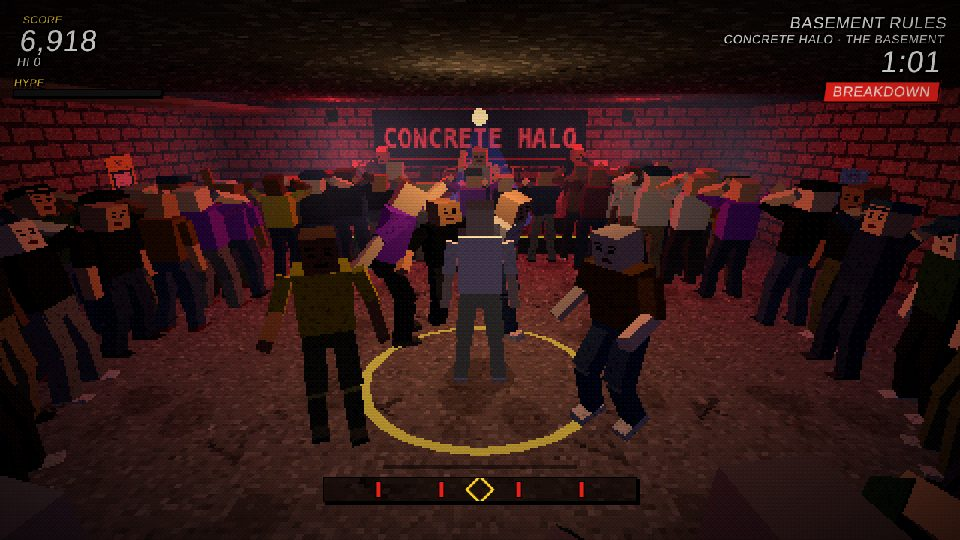
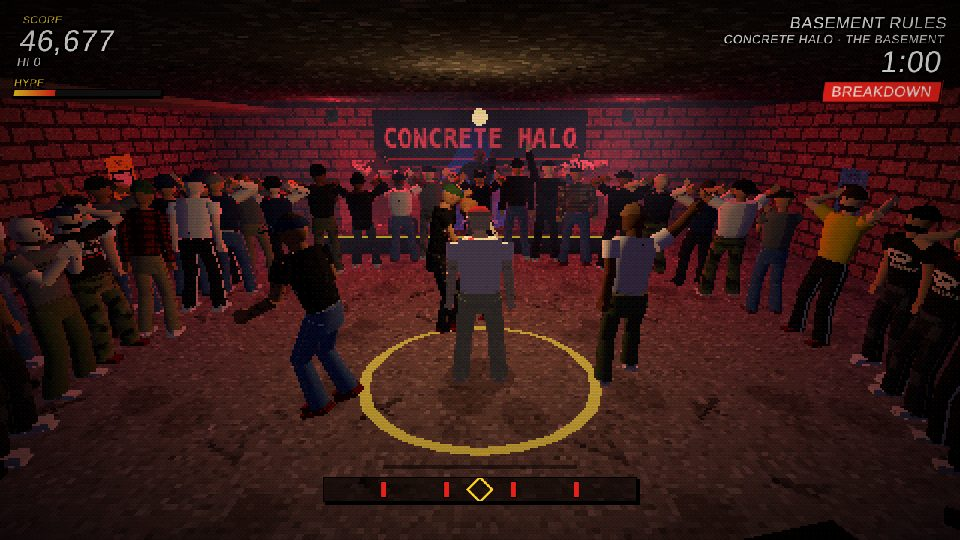
docs: document character overhaul (D-022) and refresh screenshot
Claude-Session: https://claude.ai/code/session_01ThTYhLmk1aJUtW8Gp5BPhx

diff --git a/docs/ART_DIRECTION.md b/docs/ART_DIRECTION.md
@@ -19,17 +19,23 @@ Nicht umgesetzt (bewusst): affines Texture-Warping (in WebGL2/GLSL ES 3.0 nicht 
 
 ## Low-Poly-Anforderungen
 
-- Charaktere: 15 Quader (Becken, Torso, Kopf, Mütze, Ober-/Unterarme, Ober-/Unterschenkel, Füße, Gitarre).
-  ≈ 200 Dreiecke pro Figur. Neue Teile nur mit Gameplay- oder Lesbarkeits-Nutzen.
+- Charaktere im Stil später 90er-3D-Fighter (Referenz: Tekken 3 auf der PS1): **glatt schattierte** Low-Poly-Teile
+  statt Quader – verjüngte Gliedmaßen (8 Segmente), V-förmiger Torso mit Brust und abfallenden Schultern, Kugelkopf
+  mit schmalerem Kiefer und Hals, Fäuste, Sneaker mit dicker Sohle. Kleidung, Tattoos und Gesichter sind Textur,
+  nicht Geometrie. Varianten als eigene Teile: Haare (Buzz/kurz), Bart, Cap, Cap rückwärts, Beanie, kurze/lange
+  Ärmel. ≈ 1000–1500 Dreiecke pro Figur.
+- Neue Teile nur mit Gameplay- oder Lesbarkeits-Nutzen.
 - Umgebung: Quader, Ebenen, Zylinder mit 4–12 Segmenten. Keine Rundungen „für Schönheit“.
 - Silhouette vor Detail: Spieler und Moves müssen auf 270p lesbar sein.
 
 ## Texturen
 
-- 16–64 px, Nearest-Filter, keine Mipmaps, prozedural per Canvas (`textures.ts`): Beton, Ziegel, Holzbühne,
-  Amp-Bespannung, Flyer, Gesichter, Shirt-Prints, Rauch, Lichtkegel-Verlauf.
-- Kleidung der Crowd: helle Schmutz-Textur, eingefärbt per Instanzfarbe.
-- Gesichter: 16×16-Pixel, wütend-fröhlicher Shout-Ausdruck; nur die Vorderseite des Kopfes trägt das Gesicht.
+- 16–64 px, Nearest-Filter, keine Mipmaps, prozedural per Canvas: Umgebung in `textures.ts` (Beton, Ziegel,
+  Holzbühne, Amp-Bespannung, Flyer, Rauch, Lichtkegel), Figuren in `characterTextures.ts`.
+- Figuren nutzen **Atlanten** mit 64-px-Zellen: Shirts/Jacken (fiktive Prints, Jersey, Flanell, Varsity, Camo-Puffer,
+  Hoodie), Hosen (Jeans blau/schwarz, Woodland-Camo, Cargo, Track Pants, Chinos, Jogger), Arm-Tattoos, Gesichter
+  (Ausdrücke, Sonnenbrille, Hals-Tattoos), Caps. Jede Crowd-Person wählt pro Teil eine Zelle + Farbe.
+- Die Vorderseite eines Teils liegt in der Zellenmitte (u = 0,5); Prints sitzen dort.
 - Text auf Texturen (Banner, Flyer) bewusst pixelig.
 
 ## Beleuchtung
@@ -45,11 +51,14 @@ Nicht umgesetzt (bewusst): affines Texture-Warping (in WebGL2/GLSL ES 3.0 nicht 
 ## Charakterdesign
 
 - Proportionen leicht überzeichnet (großer Kopf, breite Schultern), Größe ±8 % und Statur −10 … +20 % pro NPC.
-- Hardcore-Dresscode: überwiegend schwarze Shirts, einige weiße/graue/Bandfarben; Jeans, Cargo, Shorts; weiße
-  Sneaker oder schwarze Boots; ~30 % Caps/Beanies.
-- Spieler: weißes „MOSH“-Shirt mit rotem Print, olive Cargo-Shorts, rote Cap, weiße Schuhe, leichte Eigenleuchtkraft
-  → sticht aus der schwarzen Crowd heraus.
-- Band: Sänger in Weiß mit Mikro-Pose, Gitarristen mit Quader-Gitarren, Drummer sitzend mit roter Cap.
+- Hardcore-Dresscode nach Referenzfotos echter Bands (vom Owner bereitgestellt): überwiegend schwarze Print-Shirts,
+  Caps mit flachem Schirm (auch rückwärts), Beanies, Bärte, Glatzen, Tattoo-Sleeves und Hals-Tattoos,
+  Baseball-Jerseys, Flanell, Varsity- und Puffer-Jacken, Camo- und Jeanshosen, weiße Sneaker.
+  Gewichtung in `randomAppearance()` (`src/data/appearance.ts`). **Keine echten Band-, Team- oder Markenlogos** –
+  alle Prints sind fiktiv.
+- Spieler: weißes „MOSH PIT“-Shirt mit rotem Print, Camo-Hose, rote Cap rückwärts, Bart, Tattoo-Sleeves, leichte
+  Eigenleuchtkraft → sticht aus der schwarzen Crowd heraus.
+- Band: Sänger mit Glatze, Bart und Hoodie, Gitarristen mit Box-Gitarren, Drummer sitzend mit Cap rückwärts.
 - Animationen: überzeichnet, schnappend (Ease-In/Out, Overshoot), immer musiksynchron.
 
 ## Umgebungen

diff --git a/docs/TECHNICAL_ARCHITECTURE.md b/docs/TECHNICAL_ARCHITECTURE.md
@@ -91,8 +91,10 @@ nächsten passenden Puls. Liefert Events (`start`, `convert`, `end`, `bail`, `re
 
 ## Animationssystem
 
-- **Rig:** `CharacterRig` – Hierarchie aus Gruppen (Root → Body → Spine/Hüften → Nacken, Schultern, Ellbogen, Knie);
-  Körperteile sind Quader mit Pivot am Gelenk (15 Teile inkl. Mütze und Gitarre).
+- **Rig:** `CharacterRig` – Hierarchie aus Gruppen (Root → Body → Spine/Hüften → Nacken, Schultern, Ellbogen, Knie).
+  Körperteile (`characterParts.ts`, 28 Teile inkl. Varianten wie Cap/Beanie/Haare/Ärmel und Gitarre) sind
+  Low-Poly-Meshes mit Pivot am Gelenk. Aussehen ist reine Datenlage (`src/data/appearance.ts`), `resolveLook()`
+  übersetzt es in Sichtbarkeit, Farbe und Atlas-Zelle pro Teil.
 - **Posen/Clips:** `clips.ts` enthält handgebaute Keyframes (normierte Zeit 0..1, Easing pro Segment) für alle Moves,
   Fortbewegung, Crowd-Verhalten und Band. Sparse Specs werden auf eine Basispose gelegt und vorkompiliert.
 - **Wiederverwendung:** Spiegelung (`mirrorPose`) erzeugt Links/Rechts-Varianten; derselbe Clip läuft beim Spieler,
@@ -107,8 +109,10 @@ nächsten passenden Puls. Liefert Events (`start`, `convert`, `end`, `bail`, `re
 - `Renderer`: WebGLRenderer ohne AA → Render-Target ≈ 270 Zeilen (Breite nach Seitenverhältnis), Nearest-Filter →
   Post-Shader: sRGB, 4×4-Bayer-Dithering + Quantisierung auf 31 Stufen/Kanal, Blitz-Overlay, Vignette, Scanlines.
 - `ps1.ts`: `onBeforeCompile`-Patch für Lambert/Basic-Materialien → Vertex-Snapping auf das Low-Res-Pixelraster.
-- `CrowdRenderer`: **ein `InstancedMesh` pro Körperteil** für Crowd + Band (~15 Draw Calls total). Pro Agent wird die
-  Pose auf ein unsichtbares Scratch-Rig gelegt und die Teil-Matrizen kopiert; Farben per `instanceColor`.
+- `CrowdRenderer`: **ein `InstancedMesh` pro Körperteil** für Crowd + Band (28 Draw Calls total, unabhängig von der
+  Crowd-Größe). Pro Agent wird die Pose auf ein unsichtbares Scratch-Rig gelegt und die Teil-Matrizen kopiert;
+  Farbe per `instanceColor`, Textur-Atlas-Zelle per Instanz-Attribut `instanceAtlas` (Shader-Patch in `ps1.ts`).
+  Nicht getragene Varianten bekommen eine Null-Matrix. Der Spieler nutzt dieselben Teile mit Einzelmaterialien.
   Agenten auf der Sichtlinie Kamera→Spieler und direkt vor der Kamera werden ausgeblendet.
 - `VenueBuilder` (statische Geometrie aus `VenueDefinition`), `StageLights` (4 Punktlichter, Kegel, Rauch),
   `CameraController` (Orbit, Raum-/Decken-Clamping, Shake, FOV-Kick), `PlayerView`, `Particles`, `SceneView`.

diff --git a/docs/ROADMAP.md b/docs/ROADMAP.md
@@ -21,7 +21,10 @@ Ziel: Ein Song ist vollständig spielbar und fühlt sich wie ein kleiner Arcade-
 - ✅ Modi Arcade + Free Pit, Ergebnisbildschirm mit Note, Highscore/Best Combo gespeichert
 - ✅ Gamepad-Unterstützung (Standard-Mapping) – ⚠ noch nicht mit echter Hardware getestet
 
-## Phase 2 – Gameplay Polish ⬜ (nächste Phase)
+## Phase 2 – Gameplay Polish 🟡 (nächste Phase)
+
+- ✅ Figuren-Look überarbeitet: glatt schattierte Low-Poly-Charaktere im Stil später 90er-3D-Fighter statt Quader,
+  Kleidung/Tattoos/Gesichter per Atlas, Looks nach Referenzfotos des Owners
 
 Priorität nach Spielgefühl:
 1. ⬜ **Playtest-Runde mit echten Menschen** auf echter Hardware: Timing-Fenster, Bail-Härte, Chain-Window,
@@ -43,7 +46,7 @@ Priorität nach Spielgefühl:
 - ⬜ Career Mode: Venue-Leiter vom Keller zum Festival, Ziele pro Konzert
 - ⬜ Währung/Reputation aus Ergebnissen, Noten → Belohnungen
 - ⬜ Unlock-System (Save-Format v2 mit Migration)
-- ⬜ Charakter-Editor: Körperformen, Frisuren, Tattoos, Accessoires
+- ⬜ Charakter-Editor: Körperformen, Frisuren, Tattoos, Accessoires (Datenmodell `Appearance` + Atlanten existieren bereits)
 - ⬜ Kleidung/Merch: Bandshirts (Print-Atlas für Instancing), Hoodies, Tanktops, Cargo, Baggy Jeans, Shorts, Schuhe, Caps/Beanies
 - ⬜ Weitere Venues (Jugendzentrum, Konzertsaal, Club) mit unterschiedlichem Pit/Crowd
 - ⬜ Highscore-Listen je Venue

diff --git a/docs/DECISIONS.md b/docs/DECISIONS.md
@@ -7,6 +7,16 @@ Format: **Datum · Entscheidung** – Begründung · Betroffene Systeme · Alter
 
 ---
 
+### D-022 · 2026-11-21 · Fighting-Game-Figuren statt Quader, Outfits als Atlas-Daten
+- **Begründung:** Owner-Feedback: Quaderfiguren wirken klobig; Referenz ist der PS1-Look von 3D-Fightern (Tekken 3)
+  und Fotos echter Hardcore-Bands. Glatt schattierte Low-Poly-Teile + Texturatlanten erreichen das ohne externe
+  Modelle, behalten das Instancing (ein Draw Call pro Teil) und legen das Datenmodell für Outfit-Unlocks (Phase 3).
+- **Betroffen:** `characterParts.ts`, `characterTextures.ts`, `CharacterRig`, `CrowdRenderer`, `PlayerView`,
+  `ps1.ts` (Atlas-Attribut), `src/data/appearance.ts`, `CrowdSim`.
+- **Alternativen:** Geskinnte glTF-Modelle aus Blender (beste Qualität, aber Asset-Pipeline nötig – bleibt für
+  Phase 2/3 geplant, siehe D-021); mehr Quader-Details (bleibt klobig).
+- **Hinweis:** Keine echten Logos (Bands, Sportteams, Marken) aus den Referenzfotos – nur Stil und Typen übernommen.
+
 ### D-021 · 2026-11-21 · Tech-Stack überprüft (Godot 4 + GDScript vs. TypeScript + Three.js) – vorerst beibehalten, Zielplattform offen
 - **Anlass:** Externe Empfehlung, auf Godot 4 + GDScript für ein Windows-PC-Spiel zu wechseln.
 - **Pro Godot:** vollwertiger Editor (Level, Licht, Partikel), komfortable Blender→glTF→AnimationTree-Pipeline,

diff --git a/CLAUDE.md b/CLAUDE.md
@@ -31,7 +31,7 @@ npm run build        # Produktions-Build nach dist/
 
 ```
 src/core        Mathe, RNG, EventBus (keine Abhängigkeiten)
-src/data        Reine Daten: moves.ts, songs/, venues.ts, comboBonuses.ts
+src/data        Reine Daten: moves.ts, songs/, venues.ts, comboBonuses.ts, appearance.ts (Outfits/Looks)
 src/audio       SongTimeline (pur), SongClock, SongPlayer (Synth/File), instruments, Sfx, AudioEngine
 src/gameplay    Headless Logik: MoveSystem, MoveResolver, ComboSystem, HypeMeter, Player, crowd/CrowdSim, PitSession, modes
 src/animation   pose.ts (Pose-Format), clips.ts (Keyframes), Animator (Überblendung)
@@ -90,8 +90,8 @@ Nach jeder größeren Aufgabe:
 
 ## Aktueller Stand (2026-11-21)
 
-Phase 1 (Core Prototype) abgeschlossen: ein Venue, drei Synth-Songs, 11 Moves, Combo-/Hype-/Timing-System,
-Crowd, PS1-Renderer, HUD/Menüs, Arcade + Free Pit, Save-System, 43 Tests. Nächste Phase: Gameplay Polish
+Phase 1 (Core Prototype) abgeschlossen, Figuren-Look überarbeitet (D-022): ein Venue, drei Synth-Songs, 11 Moves, Combo-/Hype-/Timing-System,
+Crowd, PS1-Renderer, HUD/Menüs, Arcade + Free Pit, Save-System, 45 Tests. Nächste Phase: Gameplay Polish
 (Phase 2) – siehe `docs/ROADMAP.md` und `docs/SESSION_HANDOFF.md`.
 
 ## Wichtige Entscheidungen (Kurzfassung, Details in `docs/DECISIONS.md`)

diff --git a/CHANGELOG.md b/CHANGELOG.md
@@ -5,6 +5,16 @@ Versionierung nach [SemVer](https://semver.org/lang/de/) (vor 1.0 kann sich alle
 
 ## [Unreleased]
 
+### Geändert
+
+- Charaktere komplett neu: glatt schattierte Low-Poly-Körper (verjüngte Gliedmaßen, geformter Torso, Kopf mit Kiefer
+  und Hals, Fäuste, Sneaker) statt Quader; Varianten für Haare, Bart, Cap (vorwärts/rückwärts), Beanie, kurze/lange
+  Ärmel.
+- Crowd-Outfits aus einem Aussehens-Katalog (`src/data/appearance.ts`): fiktive Band-Shirts, Jersey, Flanell,
+  Hoodie, Varsity- und Puffer-Jacke, Jeans/Camo/Cargo/Track Pants, Tattoo-Sleeves, Gesichter mit Sonnenbrille oder
+  Hals-Tattoos. Per-Instanz-Texturatlas, weiterhin ein Draw Call pro Körperteil.
+- Neuer Spieler-Look (MOSH-PIT-Shirt, Camo, rote Cap rückwärts); Band mit eigenen Outfits.
+
 ## [0.1.0] – 2026-11-21 – Phase 1: Core Prototype
 
 ### Hinzugefügt

diff --git a/docs/GAME_DESIGN.md b/docs/GAME_DESIGN.md
@@ -95,6 +95,8 @@ kostet 30 %. Voll → **PIT FRENZY**: 10 s doppelte Punkte, Crowd springt, Strob
 | Band | Sänger, 2 Gitarren, Drummer, animiert je nach Sektion | ✅ |
 | Stage-Diver | Springt von der Bühne in die Crowd | 📋 Phase 2 |
 
+- **Aussehen:** Jede Person wird aus einem Katalog zusammengesetzt (Shirt/Jacke, Hose, Kopfbedeckung, Haare, Bart,
+  Tattoos, Gesicht, Hautton, Größe, Statur) – Grundlage für Charakter-/Outfit-Unlocks in Phase 3.
 - **Dynamische Dichte:** Der Pit-Radius „atmet“: Breakdown ×1,3, Heavy ×1,4, plus Hype.
 - **Reaktionen:** Jubelwelle (Verzögerung nach Entfernung) bei großen Combos und Frenzy, „Ohh“ bei Bails,
   Schubsen bei Kontakt, Stolpern bei Treffern.

diff --git a/docs/ASSET_PIPELINE.md b/docs/ASSET_PIPELINE.md
@@ -6,7 +6,8 @@ Phase 1 enthält **keine** importierten 3D-Modelle, Texturen, Audiodateien oder 
 
 | Asset-Art | Erzeugung | Ort |
 | --- | --- | --- |
-| Charaktere | Quader-Rig aus `BoxGeometry` | `src/render/CharacterRig.ts` |
+| Charaktere | Low-Poly-Teile aus Zylindern/Kugeln/Boxen | `src/render/characterParts.ts`, `CharacterRig.ts` |
+| Kleidung, Tattoos, Gesichter | Canvas-Atlanten mit 64-px-Zellen | `src/render/characterTextures.ts` |
 | Umgebung | Primitive aus `VenueDefinition` | `src/render/VenueBuilder.ts` |
 | Texturen | Canvas-2D, 16–64 px | `src/render/textures.ts` |
 | Animationen | Keyframe-Daten | `src/animation/clips.ts` |

diff --git a/docs/SESSION_HANDOFF.md b/docs/SESSION_HANDOFF.md
@@ -9,6 +9,8 @@ Kurz und praktisch. Nach jeder größeren Aufgabe aktualisieren (älteren Stand 
 
 ## Zuletzt erledigt
 
+- Figuren-Overhaul (D-022): Low-Poly-Fighter-Look, Outfit-Katalog, Atlanten; README-Screenshot erneuert.
+
 - Repo eingerichtet: Vite/TS/Vitest/Three.js, CI (`.github/workflows/ci.yml`), PR-Template, komplette Doku.
 - Phase-1-Prototyp spielbar: Basement-Venue, 3 Synth-Songs, 11 Moves, Combo/Hype/Timing, Crowd, PS1-Renderer,
   HUD/Menüs/Ergebnis, Arcade + Free Pit, Save-System.
